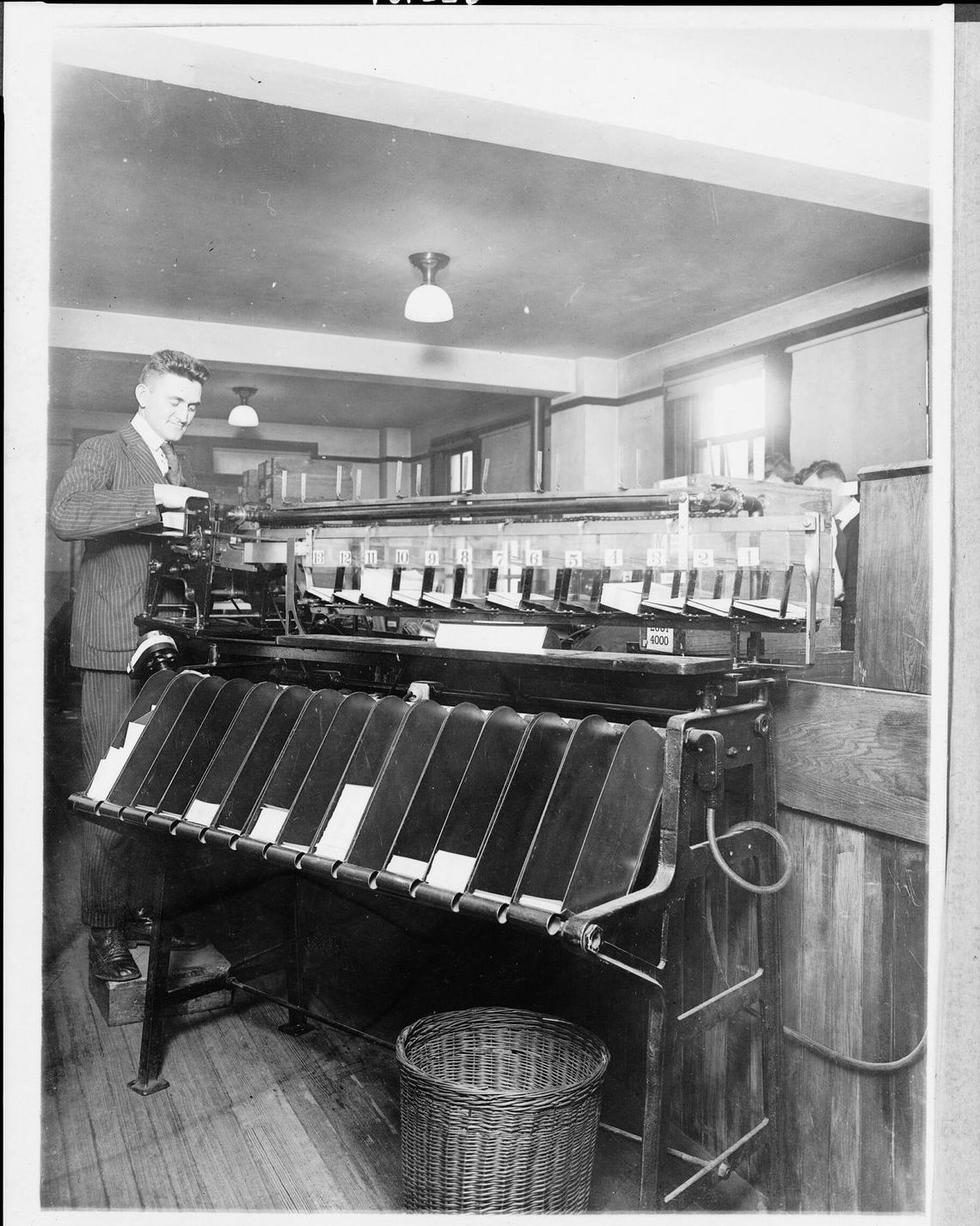
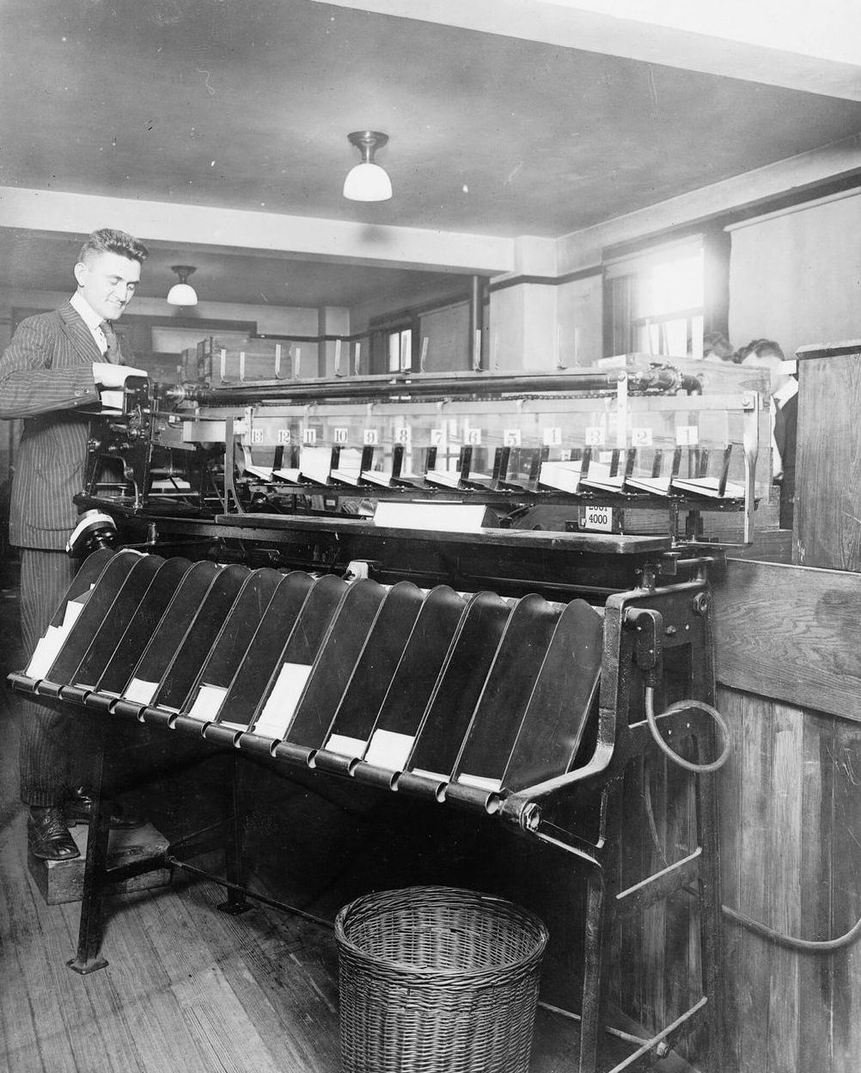
Apply finish review fixes to v2
Drop the duplicate floating button (the header action is always in
view), pin the booking sheet header, draw the close, FAQ and reminder
icons instead of glyphs, keep the footer address on one line on
phones, move chart labels into a legend row, crop the 1909 photo to
the image, give the grey bands soft light so glass reads, fill the
collapsed team cards and hide the tall diagram on phones.

Claude-Session: https://claude.ai/code/session_01EgJ36Aj3AmB4FRKHFsiQqs

diff --git a/site/index.html b/site/index.html
@@ -52,7 +52,7 @@
           <div class="notifs" id="notifs">
             <button class="notif" type="button" data-h="6" data-after="Відгуки розкладено в базі кандидатів"><span class="ic ic-mail">M</span><span><span class="hd"><span>Пошта</span><span>зараз</span></span><span class="tt">34 нові відгуки на вакансію</span><span class="tx">«Менеджер з продажу, Познань»</span></span></button>
             <button class="notif" type="button" data-h="4" data-after="Кандидати й статуси в одній базі"><span class="ic ic-xls">X</span><span><span class="hd"><span>Excel</span><span>9:02</span></span><span class="tt">kandydaci_FINAL_v3.xlsx</span><span class="tx">Хтось знову змінив файл</span></span></button>
-            <button class="notif" type="button" data-h="3" data-after="Follow-up надіслано, задача в CRM"><span class="ic ic-rem">!</span><span><span class="hd"><span>Нагадування</span><span>вчора</span></span><span class="tt">Передзвонити клієнту</span><span class="tx late">Прострочено на 2 дні</span></span></button>
+            <button class="notif" type="button" data-h="3" data-after="Follow-up надіслано, задача в CRM"><span class="ic ic-rem"><svg viewBox="0 0 24 24" width="18" height="18" aria-hidden="true"><path d="M12 4a5 5 0 0 0-5 5v3.5L5.5 15h13L17 12.5V9a5 5 0 0 0-5-5zM10 18a2 2 0 0 0 4 0" fill="none" stroke="currentColor" stroke-width="2" stroke-linecap="round" stroke-linejoin="round"/></svg></span><span><span class="hd"><span>Нагадування</span><span>вчора</span></span><span class="tt">Передзвонити клієнту</span><span class="tx late">Прострочено на 2 дні</span></span></button>
             <button class="notif is-gate" type="button" data-h="3" data-after="Рахунок розпізнано, чекає вашого погодження"><span class="ic ic-pdf">PDF</span><span><span class="hd"><span>Бухгалтерія</span><span>8:47</span></span><span class="tt">Faktura_10_2026.pdf</span><span class="tx">Внести до п'ятниці</span></span></button>
             <button class="notif" type="button" data-h="4" data-after="Звіт для клієнта зібрано й надіслано"><span class="ic ic-chat">C</span><span><span class="hd"><span>Чат з клієнтом</span><span>8:31</span></span><span class="tt">«Коли буде звіт по кандидатах?»</span><span class="tx">Клієнт питає вже вдруге</span></span></button>
             <button class="notif is-gate" type="button" data-h="3" data-after="Договір готовий, чекає вашого підпису"><span class="ic ic-doc">D</span><span><span class="hd"><span>Документи</span><span>8:15</span></span><span class="tt">Договір для нового працівника</span><span class="tx">Зібрати з 3 шаблонів</span></span></button>
@@ -108,8 +108,8 @@
       </figure>
       <div class="panel seg" role="button" tabindex="0" aria-expanded="true">
         <p class="seg__name">HR і рекрутинг</p>
-        <p class="seg__hint">Кандидати, листи, договори</p>
-        <p class="seg__open">Відкрити</p>
+        <ul class="seg__hint"><li>Кандидати</li><li>Листи</li><li>Договори</li><li>Звіти клієнту</li></ul>
+        <p class="seg__open">Відкрити: як зараз і як буде</p>
         <div class="seg__pairs">
           <p class="pair"><s>Кандидати живуть у трьох таблицях і пошті</s><span>Одна база кандидатів, синхронізована з поштою й ATS</span></p>
           <p class="pair"><s>Рекрутери вручну пишуть кожному кандидату</s><span>Листи йдуть за шаблонами, рекрутер лише перевіряє</span></p>
@@ -119,8 +119,8 @@
       </div>
       <div class="panel seg" role="button" tabindex="0" aria-expanded="false">
         <p class="seg__name">Малий і середній бізнес</p>
-        <p class="seg__hint">Заявки, рахунки, звіти</p>
-        <p class="seg__open">Відкрити</p>
+        <ul class="seg__hint"><li>Заявки</li><li>Рахунки</li><li>Звіти</li><li>Типові відповіді</li></ul>
+        <p class="seg__open">Відкрити: як зараз і як буде</p>
         <div class="seg__pairs">
           <p class="pair"><s>Заявки з сайту й пошти губляться</s><span>Кожна заявка в CRM, менеджер одразу отримує сповіщення</span></p>
           <p class="pair"><s>Рахунки виставляють вручну</s><span>Рахунок формується й надсилається сам</span></p>
@@ -130,8 +130,8 @@
       </div>
       <div class="panel seg" role="button" tabindex="0" aria-expanded="false">
         <p class="seg__name">ФОП / JDG</p>
-        <p class="seg__hint">Месенджери, запис, бухгалтер</p>
-        <p class="seg__open">Відкрити</p>
+        <ul class="seg__hint"><li>Месенджери</li><li>Запис клієнтів</li><li>Рахунки</li><li>Бухгалтер</li></ul>
+        <p class="seg__open">Відкрити: як зараз і як буде</p>
         <div class="seg__pairs">
           <p class="pair"><s>Клієнти пишуть у трьох месенджерах</s><span>Усі звернення в одному місці з нагадуваннями</span></p>
           <p class="pair"><s>Рахунки й нагадування про оплату щомісяця вручну</s><span>Рахунки й нагадування йдуть самі</span></p>
@@ -304,7 +304,7 @@
     </div>
     <div class="gate">
       <figure class="gate__photo" data-rise>
-        <img class="bw" src="assets/an-automatic-sorting-machine-in-use-in.jpg" width="1140" height="1426" alt="Чоловік біля великої машини 1909 року, що сортує картки по пронумерованих лотках" loading="lazy">
+        <img class="bw" src="assets/an-automatic-sorting-machine-in-use-in.jpg" width="1002" height="1248" alt="Чоловік біля великої машини 1909 року, що сортує картки по пронумерованих лотках" loading="lazy">
         <figcaption>Автоматична сортувальна машина в Бюро перепису США, 1909</figcaption>
       </figure>
       <div data-rise>
@@ -370,12 +370,12 @@
 
     <h2 id="h-faq" style="margin-top:120px" data-rise>Питання перед розмовою</h2>
     <div class="faq">
-      <details class="qa" data-rise><summary>Чи замінить AI моїх людей?</summary><p>Ні. Я автоматизую рутину: перенесення даних, нагадування, чернетки, звіти. Рішення про гроші й людей ухвалюють люди, а в команди з'являється час на роботу, яку цінують клієнти. Проєкти, мета яких скоротити людей, я не беру.</p></details>
-      <details class="qa" data-rise><summary>Скільки це коштує?</summary><p>Консультація коштує 190&nbsp;zł за 30 хвилин і зараховується у впровадження. Вартість аудиту й впровадження залежить від процесів і систем, тож я називаю її після консультації і фіксую до початку робіт.</p></details>
-      <details class="qa" data-rise><summary>Чи має це сенс для ФОП або JDG?</summary><p>Так, якщо рутина забирає у вас хоча б кілька годин на тиждень: рахунки, переписка, запис клієнтів, документи. На консультації скажу, що можна автоматизувати швидко й недорого.</p></details>
-      <details class="qa" data-rise><summary>Чи безпечно віддавати дані?</summary><p>Працюю відповідно до GDPR. Використовую моделі з обробкою даних в ЄС, які не навчаються на ваших даних. n8n можна розгорнути на вашому сервері. Доступи видаєте ви й можете відкликати будь-коли.</p></details>
-      <details class="qa" data-rise><summary>AI в рекрутингу і EU AI Act?</summary><p>Автоматизую операційну частину: листи кандидатам, запис, документи, синхронізацію систем. Якщо AI допомагає оцінювати кандидатів, рішення завжди ухвалює рекрутер, а вимоги закону перевіряємо разом до запуску.</p></details>
-      <details class="qa" data-rise><summary>З якими системами працюєте?</summary><p>HubSpot, Google Workspace, Jira і Confluence, PowerBI, n8n, Make, Claude, OpenAI, Gemini та будь-які системи з API. Нові оцінюю на консультації.</p></details>
+      <details class="qa" data-rise><summary><span>Чи замінить AI моїх людей?</span><span class="qa__mark" aria-hidden="true"></span></summary><p>Ні. Я автоматизую рутину: перенесення даних, нагадування, чернетки, звіти. Рішення про гроші й людей ухвалюють люди, а в команди з'являється час на роботу, яку цінують клієнти. Проєкти, мета яких скоротити людей, я не беру.</p></details>
+      <details class="qa" data-rise><summary><span>Скільки це коштує?</span><span class="qa__mark" aria-hidden="true"></span></summary><p>Консультація коштує 190&nbsp;zł за 30 хвилин і зараховується у впровадження. Вартість аудиту й впровадження залежить від процесів і систем, тож я називаю її після консультації і фіксую до початку робіт.</p></details>
+      <details class="qa" data-rise><summary><span>Чи має це сенс для ФОП або JDG?</span><span class="qa__mark" aria-hidden="true"></span></summary><p>Так, якщо рутина забирає у вас хоча б кілька годин на тиждень: рахунки, переписка, запис клієнтів, документи. На консультації скажу, що можна автоматизувати швидко й недорого.</p></details>
+      <details class="qa" data-rise><summary><span>Чи безпечно віддавати дані?</span><span class="qa__mark" aria-hidden="true"></span></summary><p>Працюю відповідно до GDPR. Використовую моделі з обробкою даних в ЄС, які не навчаються на ваших даних. n8n можна розгорнути на вашому сервері. Доступи видаєте ви й можете відкликати будь-коли.</p></details>
+      <details class="qa" data-rise><summary><span>AI в рекрутингу і EU AI Act?</span><span class="qa__mark" aria-hidden="true"></span></summary><p>Автоматизую операційну частину: листи кандидатам, запис, документи, синхронізацію систем. Якщо AI допомагає оцінювати кандидатів, рішення завжди ухвалює рекрутер, а вимоги закону перевіряємо разом до запуску.</p></details>
+      <details class="qa" data-rise><summary><span>З якими системами працюєте?</span><span class="qa__mark" aria-hidden="true"></span></summary><p>HubSpot, Google Workspace, Jira і Confluence, PowerBI, n8n, Make, Claude, OpenAI, Gemini та будь-які системи з API. Нові оцінюю на консультації.</p></details>
     </div>
   </div>
 </section>
@@ -385,7 +385,7 @@
 <footer class="foot" aria-label="Контакти">
   <div class="wrap">
     <p class="lead" style="color:#C9D3DB">Михайло Логаза · AI-автоматизації процесів · Познань, Польща</p>
-    <a class="foot__mail" href="mailto:kontakt@mlohaza.com">kontakt@mlohaza.com</a>
+    <a class="foot__mail" href="mailto:kontakt@mlohaza.com">kontakt@<wbr>mlohaza.com</a>
     <div class="cta-row"><a class="btn" href="#pochaty" data-book data-press>Записатися на консультацію</a></div>
     <div class="foot__row">
       <p>Рутину — агентам, рішення — людям.</p>
@@ -395,14 +395,12 @@
   </div>
 </footer>
 
-<div class="dock" id="dock"><a class="btn" href="#pochaty" data-book data-press>Консультація 30&nbsp;хв · 190&nbsp;zł</a></div>
-
 <dialog class="sheet" id="sheet" aria-labelledby="h-book">
   <div class="sheet__in">
     <div class="sheet__head">
       <img src="img/me-head.jpg" width="360" height="360" alt="Михайло Логаза">
       <div><h2 id="h-book">Консультація 30&nbsp;хв</h2><p>190&nbsp;zł (≈&nbsp;45&nbsp;€) · зараховується у впровадження</p></div>
-      <button class="sheet__x" type="button" id="sheetClose" aria-label="Закрити">×</button>
+      <button class="sheet__x" type="button" id="sheetClose" aria-label="Закрити"><svg viewBox="0 0 24 24" width="20" height="20" aria-hidden="true"><path d="M6 6l12 12M18 6L6 18" fill="none" stroke="currentColor" stroke-width="2" stroke-linecap="round"/></svg></button>
     </div>
     <ol class="agenda">
       <li>Розберемо ваш процес.</li>

diff --git a/site/styles.css b/site/styles.css
@@ -69,7 +69,7 @@ html{scrollbar-color:#9AA6B0 transparent}
 /* ---------- frame ---------- */
 .wrap{width:100%;max-width:1360px;margin-inline:auto;padding-left:32px;padding-right:32px;padding-left:max(32px,env(safe-area-inset-left,0px));padding-right:max(32px,env(safe-area-inset-right,0px))}
 .section{position:relative;padding-top:136px;padding-bottom:136px}
-.paper{background:var(--paper)}
+.paper{background-color:var(--paper);background-image:radial-gradient(40vw 34vw at 92% 8%,rgba(122,208,196,.32),transparent 70%),radial-gradient(40vw 34vw at 4% 96%,rgba(170,184,255,.3),transparent 70%)}
 .light{background-color:var(--bg);background-image:radial-gradient(48vw 40vw at 6% 4%,var(--teal-light),transparent 70%),radial-gradient(44vw 40vw at 98% 22%,var(--lilac-light),transparent 70%),radial-gradient(50vw 44vw at 60% 104%,var(--peach-light),transparent 70%)}
 .head{display:grid;gap:18px;max-width:760px}
 h2{font-size:var(--t-h2);font-weight:720;line-height:1.02}
@@ -123,9 +123,6 @@ input[type="range"]{width:100%;accent-color:var(--accent);height:30px}
 .nav__links a{color:var(--ink);text-decoration:none}
 .nav__links a:hover{color:var(--accent)}
 .nav .btn{min-height:42px;padding:8px 18px;font-size:14px;white-space:nowrap}
-.dock{position:fixed;right:max(24px,env(safe-area-inset-right,0px));bottom:max(24px,env(safe-area-inset-bottom,0px));z-index:45;transform:translateY(140%);transition:transform .45s var(--ease)}
-.dock.is-on{transform:none}
-.dock .btn{box-shadow:0 18px 40px -18px rgba(19,32,42,.45)}
 
 /* ---------- hero: 1959 in greyscale, today's phone in colour ---------- */
 .hero{position:relative;overflow:hidden;background:var(--paper);isolation:isolate}
@@ -165,6 +162,7 @@ input[type="range"]{width:100%;accent-color:var(--accent);height:30px}
   background:rgba(255,255,255,.66);-webkit-backdrop-filter:blur(14px);backdrop-filter:blur(14px);transition:background-color .3s,transform .2s var(--ease)}
 .notif:hover{transform:scale(1.015);background:rgba(255,255,255,.86)}
 .notif > span:last-child{min-width:0}
+.notif .ic svg{display:block}
 .notif .ic{width:34px;height:34px;border-radius:9px;display:grid;place-items:center;color:#fff;font-weight:700;font-size:13px}
 .notif .hd{display:flex;justify-content:space-between;gap:8px;font-size:12px;color:var(--muted);line-height:1.3}
 .notif .tt{display:block;font-weight:640;font-size:14px;line-height:1.3;white-space:nowrap;overflow:hidden;text-overflow:ellipsis}
@@ -198,7 +196,7 @@ input[type="range"]{width:100%;accent-color:var(--accent);height:30px}
 .proofs b{font-size:var(--t-fig);font-weight:720;line-height:1;letter-spacing:-.035em;color:var(--ink);font-variant-numeric:tabular-nums}
 
 /* ---------- teams band ---------- */
-.band{display:flex;gap:8px;height:min(540px,70svh);margin-top:48px}
+.band{display:flex;gap:8px;height:min(500px,66svh);margin-top:48px}
 .panel{position:relative;flex:2 1 0;min-width:0;overflow:hidden;border-radius:var(--r-lg);transition:flex-grow .55s var(--ease)}
 .panel--photo{flex-grow:3.4}
 .panel--photo img{width:100%;height:100%;object-fit:cover;object-position:50% 18%}
@@ -209,7 +207,8 @@ input[type="range"]{width:100%;accent-color:var(--accent);height:30px}
 .seg:hover{border-color:var(--accent)}
 .seg[aria-expanded="true"]{flex-grow:6;cursor:default;background:var(--glass-strong)}
 .seg__name{font-size:var(--t-lead);font-weight:700;line-height:1.25;max-width:14ch}
-.seg__hint{margin-top:8px;font-size:14px;color:var(--muted)}
+.seg__hint{display:grid;gap:6px;margin-top:18px;font-size:var(--t-lead);line-height:1.3;color:var(--ink)}
+.seg__hint li{opacity:.75}
 .seg__open{margin-top:auto;font-size:14px;font-weight:620;color:var(--accent-text)}
 .seg[aria-expanded="true"] .seg__hint,.seg[aria-expanded="true"] .seg__open{display:none}
 .seg__pairs{display:none;gap:18px;margin-top:22px}
@@ -356,14 +355,16 @@ input[type="range"]{width:100%;accent-color:var(--accent);height:30px}
 .rung:nth-child(1) p{color:#fff}
 .faq{display:grid;gap:8px;margin-top:40px;max-width:900px}
 .qa{border-radius:var(--r-md);background:var(--glass);border:1px solid var(--line)}
-.qa summary{display:flex;justify-content:space-between;gap:20px;padding:18px 22px;font-size:var(--t-lead);font-weight:640;cursor:pointer;list-style:none}
+.qa summary{display:flex;justify-content:space-between;align-items:center;gap:20px;padding:18px 22px;font-size:var(--t-lead);font-weight:640;cursor:pointer;list-style:none}
 .qa summary::-webkit-details-marker{display:none}
-.qa summary::after{content:"+";font-weight:400;color:var(--accent);font-size:26px;line-height:1}
-.qa[open] summary::after{content:"–"}
+.qa__mark{position:relative;flex:none;width:22px;height:22px;transition:transform .3s var(--ease)}
+.qa__mark::before,.qa__mark::after{content:"";position:absolute;left:2px;right:2px;top:10px;height:2px;border-radius:2px;background:var(--accent-text)}
+.qa__mark::after{transform:rotate(90deg)}
+.qa[open] .qa__mark{transform:rotate(45deg)}
 .qa p{padding:0 22px 20px;color:var(--muted);max-width:66ch}
 .foot{background:var(--night);color:#EEF2F5;padding-top:96px;padding-bottom:36px}
 .foot a{color:#fff}
-.foot__mail{display:block;font-size:var(--t-display);font-weight:740;line-height:1;letter-spacing:-.035em;text-decoration:none;margin-top:28px;overflow-wrap:anywhere}
+.foot__mail{display:block;font-size:var(--t-display);overflow-wrap:normal;word-break:normal;font-weight:740;line-height:1;letter-spacing:-.035em;text-decoration:none;margin-top:28px}
 .foot__mail:hover{color:#7FE0CF}
 .foot__row{display:grid;grid-template-columns:1fr 2fr 1fr;gap:24px;margin-top:72px;font-size:14px;color:#AEB9C2}
 .foot__row p:last-child{text-align:right}
@@ -372,11 +373,11 @@ input[type="range"]{width:100%;accent-color:var(--accent);height:30px}
 .sheet{width:min(560px,100%);height:100%;max-height:100%;max-width:100%;margin:0 0 0 auto;padding:0;border:0;border-radius:28px 0 0 28px;background:rgba(244,247,249,.94);color:var(--ink);-webkit-backdrop-filter:var(--blur);backdrop-filter:var(--blur);box-shadow:-30px 0 80px -40px rgba(19,32,42,.55)}
 .sheet::backdrop{background:rgba(16,24,32,.38);-webkit-backdrop-filter:blur(3px);backdrop-filter:blur(3px)}
 .sheet__in{display:grid;gap:24px;padding:28px 28px 40px;overflow:auto;max-height:100%}
-.sheet__head{display:grid;grid-template-columns:56px minmax(0,1fr) auto;gap:14px;align-items:center}
+.sheet__head{position:sticky;top:-28px;z-index:2;display:grid;grid-template-columns:56px minmax(0,1fr) auto;gap:14px;align-items:center;margin:-28px -28px 0;padding:28px 28px 14px;background:rgba(244,247,249,.96)}
 .sheet__head img{width:56px;height:56px;border-radius:50%;object-fit:cover;object-position:50% 30%}
 .sheet__head h2{font-size:24px;line-height:1.15;letter-spacing:-.02em}
 .sheet__head p{font-size:14px;color:var(--muted)}
-.sheet__x{width:44px;height:44px;border-radius:50%;border:1px solid var(--line);background:#fff;font-size:22px;line-height:1;cursor:pointer}
+.sheet__x{width:44px;height:44px;display:grid;place-items:center;border-radius:50%;border:1px solid var(--line);background:#fff;color:var(--ink);cursor:pointer}
 .agenda{display:grid;gap:6px;padding:16px 18px;border-radius:var(--r-md);background:var(--accent-soft);font-size:14px;counter-reset:a}
 .agenda li{display:grid;grid-template-columns:22px 1fr;gap:6px}
 .agenda li::before{counter-increment:a;content:counter(a);font-weight:700;color:var(--accent)}
@@ -434,15 +435,16 @@ input[type="range"]{width:100%;accent-color:var(--accent);height:30px}
   .belief{font-size:24px}
   .case__body{margin-left:0;padding:0 18px 20px}
   .tabs{border-radius:22px}
+  .ops-diagram,.ops__step{display:none}
   .tab{flex:1 1 40%;padding:0 12px}
   .ladder{grid-template-columns:1fr}
   .two{grid-template-columns:1fr}
+  .foot__mail{font-size:30px}
   .foot__row{grid-template-columns:1fr}
   .foot__row p:last-child{text-align:left}
-  .dock{left:max(16px,env(safe-area-inset-left,0px));right:max(16px,env(safe-area-inset-right,0px));bottom:max(16px,env(safe-area-inset-bottom,0px))}
-  .dock .btn{width:100%}
-  .sheet{width:100%;height:auto;max-height:92svh;margin:auto 0 0;border-radius:28px 28px 0 0}
+    .sheet{width:100%;height:auto;max-height:92svh;margin:auto 0 0;border-radius:28px 28px 0 0}
   .sheet__in{padding:22px 20px 32px}
+  .sheet__head{top:-22px;margin:-22px -20px 0;padding:22px 20px 12px}
   .task{grid-template-columns:48px minmax(0,1fr);gap:4px 10px}
   .task__state{grid-column:2;justify-self:start}
   .builder__pick,.calc__controls,.ops,.flow{padding:22px 18px}

diff --git a/site/main.js b/site/main.js
@@ -26,20 +26,7 @@
     M.animate(from, to, { duration: 0.45, ease: [0.16, 1, 0.3, 1], onUpdate: (v) => { node.textContent = format(v); } });
   };
 
-  /* ---------- sticky action after the hero ---------- */
   const hero = $('#hero');
-  const dock = $('#dock');
-  if (hero && dock && 'IntersectionObserver' in window) {
-    // The button waits out of the way while the visitor reads down, and comes back on a pause or a scroll up.
-    let past = false, lastY = window.scrollY, idle;
-    const show = (on) => dock.classList.toggle('is-on', past && on);
-    new IntersectionObserver(([e]) => { past = !e.isIntersecting; show(past); }, { threshold: 0.05 }).observe(hero);
-    window.addEventListener('scroll', () => {
-      const y = window.scrollY;
-      if (Math.abs(y - lastY) > 6) { show(y < lastY); lastY = y; }
-      clearTimeout(idle); idle = setTimeout(() => show(true), 900);
-    }, { passive: true });
-  }
 
   /* ---------- hero: hand the notifications to the agent ---------- */
   const notifs = $$('#notifs .notif');
@@ -197,7 +184,7 @@
   const drawChart = (monthBack) => {
     const box = $('#chart'); if (!box) return;
     const NS = 'http://www.w3.org/2000/svg';
-    const W = Math.max(280, Math.min(720, box.clientWidth || 640)), H = 220, top = 30, base = 186;
+    const W = Math.max(280, Math.min(720, box.clientWidth || 640)), H = 236, top = W > 460 ? 40 : 56, base = 202;
     const bw = Math.min(38, (W - 11 * 6) / 12), gap = (W - 12 * bw) / 11;
     const max = monthBack * 12 || 1;
     const y = (v) => base - (v / max) * (base - top);
@@ -209,10 +196,13 @@
       mk('rect', { x, y: y(v), width: bw, height: Math.max(2, base - y(v)), rx: 6, fill: m <= 3 ? 'var(--lilac)' : 'var(--accent)', 'fill-opacity': m <= 3 ? 0.55 : 1 });
       mk('text', { x: x + bw / 2, y: base + 20, 'text-anchor': 'middle' }, m === 1 && W > 420 ? '1 міс.' : String(m));
     }
-    const q = monthBack * 3, qx = 3 * (bw + gap) - gap / 2;
+    const q = monthBack * 3;
     mk('line', { x1: 0, x2: W, y1: y(q), y2: y(q), stroke: 'var(--lilac)', 'stroke-width': 2, 'stroke-dasharray': '5 6' });
-    mk('text', { class: 'lab', x: 0, y: y(q) - 10 }, `3 місяці: ${zl(q)}`);
-    mk('text', { class: 'lab', x: W, y: 16, 'text-anchor': 'end' }, `12 місяців: ${zl(max)}`);
+    // Labels sit in a legend row above the bars, never on them.
+    mk('line', { x1: 0, x2: 18, y1: 11, y2: 11, stroke: 'var(--lilac)', 'stroke-width': 2, 'stroke-dasharray': '5 4' });
+    mk('text', { class: 'lab', x: 24, y: 16 }, `3 місяці: ${zl(q)}`);
+    if (W > 460) mk('text', { class: 'lab', x: W, y: 16, 'text-anchor': 'end' }, `12 місяців: ${zl(max)}`);
+    else mk('text', { class: 'lab', x: 24, y: 34 }, `12 місяців: ${zl(max)}`);
     box.replaceChildren(svg);
     box.setAttribute('aria-label', `Накопичена економія: ${zl(q)} за 3 місяці, ${zl(max)} за 12 місяців`);
   };
@@ -365,6 +355,7 @@
       $('#fWhat').value = `Мої цифри з калькулятора: ${last.p} людей, ${last.hours} год/тиждень рутини, ${zl(last.year)} на рік.`;
     }
     sheet.showModal();
+    $('.sheet__in', sheet).scrollTop = 0;
     if (canMove) {
       const phone = window.matchMedia('(max-width: 760px)').matches;
       M.animate(sheet, phone ? { y: ['100%', '0%'] } : { x: ['100%', '0%'] }, { duration: 0.45, ease: [0.16, 1, 0.3, 1] });
@@ -398,7 +389,7 @@
     const text = lines.join('\n');
     $('#confirmText').textContent = text;
     $('#mailLink').href = `mailto:kontakt@mlohaza.com?subject=${encodeURIComponent('Консультація 30 хв')}&body=${encodeURIComponent(text)}`;
-    form.hidden = true; confirmBox.hidden = false; confirmBox.focus();
+    form.hidden = true; confirmBox.hidden = false; $('.sheet__in', sheet).scrollTop = 0; confirmBox.focus({ preventScroll: true });
   });
   const copyBtn = $('#copyBtn');
   if (copyBtn) copyBtn.addEventListener('click', () => {
